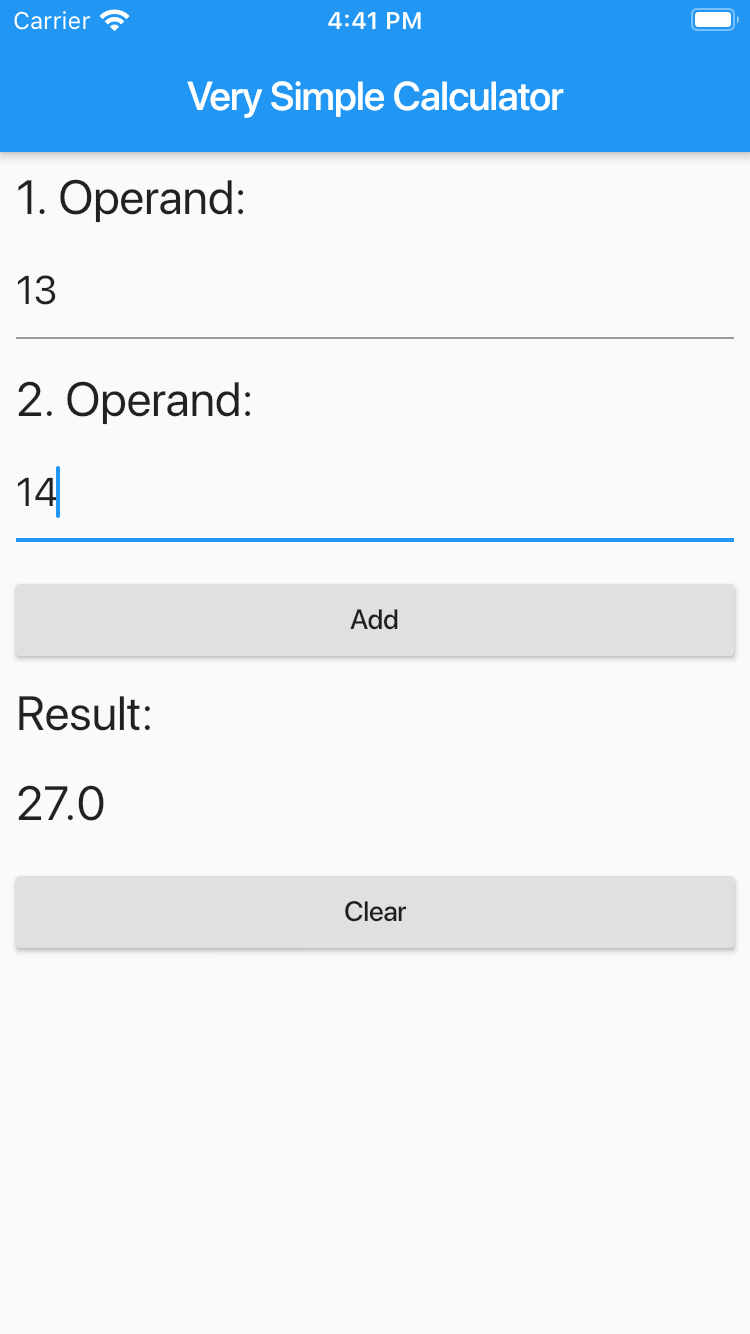
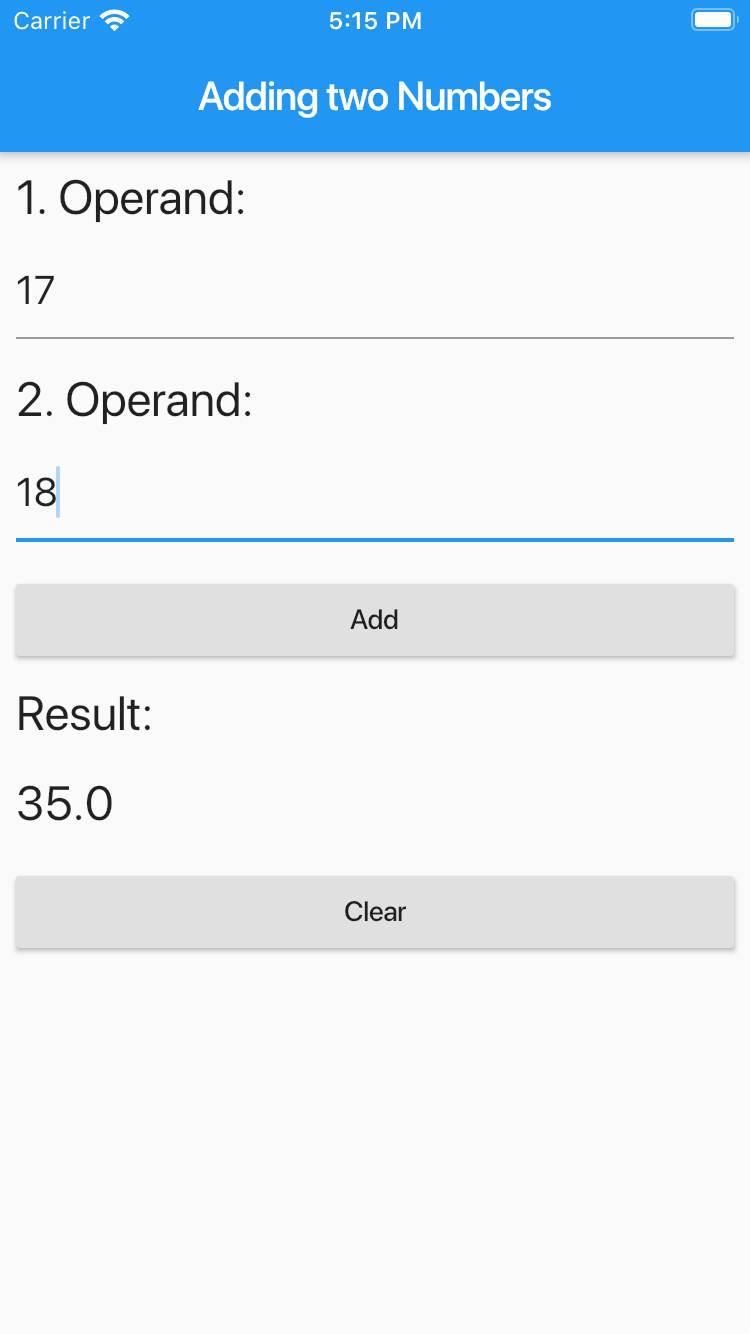
minor changes

diff --git a/lib/app_widget.dart b/lib/app_widget.dart
@@ -10,7 +10,7 @@ class MyApp extends StatelessWidget {
       theme: ThemeData(
         primarySwatch: Colors.blue,
       ),
-      home: AddiererWidget(title: 'Very Simple Calculator'),
+      home: AddiererWidget(title: 'Adding two Numbers'),
     );
   }
 }

diff --git a/README.md b/README.md
@@ -1,4 +1,4 @@
-# Addierer / Simple Adder
+# Addierer zweier Zahlen / Adding two Numbers
 
 ## Getting Started
 
@@ -10,7 +10,7 @@ Calling the inherited method `setState`-method of class `StatefulWidget` yields 
 
 <img src="assets/adder_screenshot.png" width="300">
 
-Abbildung 1. Homepage of 'Simple Adder' App.
+Abbildung 1. Homepage of *Adding two Numbers* App.
 
 ## Erste Schritte
 
@@ -25,6 +25,4 @@ Ein Aufruf der `setState`-Methode in der `StatefulWidget`-Klasse zieht unmittelb
 
 <img src="assets/adder_screenshot.png" width="300">
 
-Abbildung 1. Oberfläche der Addierer-App.
-
-
+Abbildung 1. Oberfläche der *Adding two Numbers*-App.
